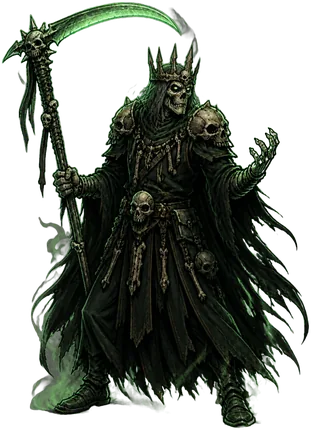
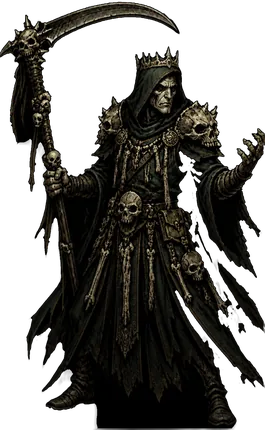
Nécromancien : armure palier V repeinte (sans aura, progression IV → V → VI)
Claude-Session: https://claude.ai/code/session_01XuxscubMSQPeew8BrSfQGu

diff --git a/index.html b/index.html
@@ -242,7 +242,7 @@ p{margin:6px 0;line-height:1.45}
 <div id="boot"><div class="bootin"><img src="assets/ui_emblem.webp" alt="" onerror="this.remove()"><h1>Couronne de Cendres</h1><div class="bootbar"><i></i></div><div class="boottxt">Les braises s'allument…</div><button class="btn ghost sm" id="bootskip" style="display:none">Continuer sans attendre</button></div></div>
 <div id="toasts" aria-live="polite"></div>
 <script>window.CC_SW = 1;</script><script>
-window.ART_LIST=["bg_abime","bg_bastion","bg_bastion2","bg_bastion_port","bg_bastion_port_src","bg_bourg","bg_catacombes","bg_cimes","bg_citadelle","bg_cite","bg_foret","bg_marais","bg_mines","bg_terres","bg_titre","bg_trone","bg_worldmap","bld_academie","bld_academie_2","bld_academie_3","bld_chapelle","bld_chapelle_2","bld_chapelle_3","bld_fonderie","bld_fonderie_2","bld_fonderie_3","bld_forge","bld_forge_2","bld_forge_3","bld_menagerie","bld_menagerie_2","bld_menagerie_3","bld_porte","bld_taverne","bld_taverne_2","bld_taverne_3","hero_arbaletriere_chasseresse","hero_arbaletriere_t1","hero_arbaletriere_t2","hero_arbaletriere_t3","hero_arbaletriere_t4","hero_arbaletriere_t5","hero_arbaletriere_tireuse_elite","hero_berserker_chef_guerre","hero_berserker_ecorcheur","hero_berserker_t1","hero_berserker_t2","hero_berserker_t3","hero_berserker_t4","hero_berserker_t5","hero_chasseur_sorcieres_purificateur","hero_chasseur_sorcieres_t1","hero_chasseur_sorcieres_t2","hero_chasseur_sorcieres_t3","hero_chasseur_sorcieres_t4","hero_chasseur_sorcieres_t5","hero_chasseur_sorcieres_traqueur","hero_exorciste_confesseur","hero_exorciste_penitent","hero_exorciste_t1","hero_exorciste_t2","hero_exorciste_t3","hero_exorciste_t4","hero_exorciste_t5","hero_gardien_runes_forge_tonnerre","hero_gardien_runes_t1","hero_gardien_runes_t2","hero_gardien_runes_t3","hero_gardien_runes_t4","hero_gardien_runes_t5","hero_gardien_runes_thane_pierre","hero_hallebardier_garde_roi","hero_hallebardier_lansquenet","hero_hallebardier_t1","hero_hallebardier_t2","hero_hallebardier_t3","hero_hallebardier_t4","hero_hallebardier_t5","hero_medecin_peste_apothicaire","hero_medecin_peste_chirurgien","hero_medecin_peste_t1","hero_medecin_peste_t2","hero_medecin_peste_t3","hero_medecin_peste_t4","hero_medecin_peste_t5","hero_menestrel_chantre","hero_menestrel_heraut","hero_menestrel_t1","hero_menestrel_t2","hero_menestrel_t3","hero_menestrel_t4","hero_menestrel_t5","hero_necromancien_liche","hero_necromancien_maitre_tombes","hero_necromancien_t1","hero_necromancien_t2","hero_necromancien_t3","hero_necromancien_t4","hero_necromancien_t5","hero_ombre_assassin","hero_ombre_ombre_sang","hero_ombre_t1","hero_ombre_t2","hero_ombre_t3","hero_ombre_t4","hero_ombre_t5","hero_pretresse_martyre","hero_pretresse_sainte","hero_pretresse_t1","hero_pretresse_t2","hero_pretresse_t3","hero_pretresse_t4","hero_pretresse_t5","hero_pyromancien_archimage","hero_pyromancien_demoniste","hero_pyromancien_t1","hero_pyromancien_t2","hero_pyromancien_t3","hero_pyromancien_t4","hero_pyromancien_t5","hero_revenant_seigneur_sang","hero_revenant_spectre","hero_revenant_t1","hero_revenant_t2","hero_revenant_t3","hero_revenant_t4","hero_revenant_t5","hero_sorciere_druidesse","hero_sorciere_sorciere_noire","hero_sorciere_t1","hero_sorciere_t2","hero_sorciere_t3","hero_sorciere_t4","hero_sorciere_t5","hero_templier_bastion","hero_templier_inquisiteur","hero_templier_t1","hero_templier_t2","hero_templier_t3","hero_templier_t4","hero_templier_t5","map_boss","map_camp","map_combat","map_elite","map_event","map_shop","map_treasure","mon_abbe","mon_alpha","mon_anguille_ombre","mon_araignee","mon_archer","mon_archer_os","mon_archonte_cendres","mon_boucher","mon_bouffon_roi","mon_bourreau","mon_brigand","mon_cardinal","mon_champion_roi","mon_charognard","mon_chauve_souris","mon_chevalier_couronne","mon_chevalier_dechu","mon_chevalier_os","mon_chevaucheur_calcine","mon_chien_cendre","mon_coeur_montagne","mon_colosse_braise","mon_contremaitre","mon_crabe_geant","mon_crapaud","mon_cultiste","mon_devoreur_lumiere","mon_diablotin","mon_docteur","mon_dryade","mon_follet","mon_fondeur_maudit","mon_garde_spectral","mon_gargouille","mon_golem","mon_golem_fer","mon_goule","mon_hallebardier_os","mon_heraut_neant","mon_homme_poisson","mon_horreur","mon_hydre","mon_inquisiteur","mon_jarl_mort","mon_leviathan","mon_liche","mon_loup","mon_loup_givre","mon_matrone_os","mon_mere_noyes","mon_mere_ronces","mon_mineur_possede","mon_moine_flagellant","mon_necrophage","mon_noye","mon_noyee_chantante","mon_oeil","mon_ogre","mon_pecheur","mon_pendu","mon_penitent_ardent","mon_pestifere","mon_pretre_abysses","mon_pretre_suie","mon_prieur","mon_profond","mon_rat","mon_reine_hiver","mon_reine_sabbat","mon_revenant_glace","mon_roi","mon_roi_noye","mon_roi_vide","mon_sangsue","mon_sans_nom","mon_sans_visage","mon_sentinelle_obsidienne","mon_seraphin_dechu","mon_sorcier_givre","mon_sorciere_marais","mon_spectre","mon_spectre_blizzard","mon_squelette","mon_thuriferaire","mon_troll_givre","mon_ver_roche","pet_araignee","pet_araignee_evo","pet_belette","pet_cerf","pet_cerf_evo","pet_chat_noir","pet_chat_noir_evo","pet_chauve_souris","pet_chauve_souris_evo","pet_chouette","pet_chouette_evo","pet_corbeau","pet_corbeau_evo","pet_crapaud","pet_crapaud_evo","pet_drake","pet_drake_evo","pet_feu_follet","pet_feu_follet_evo","pet_gargouille","pet_gargouille_evo","pet_griffon","pet_griffon_evo","pet_loup","pet_loup_evo","pet_molosse","pet_molosse_evo","pet_ours","pet_ours_evo","pet_renard","pet_renard_evo","pet_salamandre","pet_salamandre_evo","pet_sanglier","pet_sanglier_evo","pet_vipere","pet_vipere_evo","por_anselme","por_capitaine","por_maugrin","por_ysolde","tr_amulette_sel","tr_bague_fer","tr_cape_brume","tr_chapelet","tr_cloche_morte","tr_coeur_braise","tr_coeur_roi","tr_couronne_epines","tr_crane_saint","tr_croc_vampire","tr_dent_loup","tr_ecu_brise","tr_fiole_sang","tr_fragment_couronne","tr_gant_bourreau","tr_griffe_ombre","tr_herbe_rare","tr_oeil_abime","tr_oeil_verre","tr_phylactere","tr_pierre_ame","tr_plume_corbeau","tr_relique_aube","tr_sablier","tr_sceau_rouge","ui_aim","ui_amulet","ui_anvil","ui_armor","ui_atlas","ui_axe","ui_back","ui_bag","ui_banner","ui_bark","ui_bell","ui_bird","ui_bless","ui_blood","ui_bolt","ui_bones","ui_book","ui_boom","ui_camp","ui_castle","ui_chain","ui_chapel","ui_charge","ui_chest","ui_claw","ui_cleanse","ui_cloak","ui_coin","ui_crown","ui_cup","ui_curse","ui_dagger","ui_daily","ui_dice","ui_drain","ui_ember","ui_emblem","ui_essence","ui_eye","ui_fang","ui_fear","ui_feather","ui_fire","ui_flames","ui_flare","ui_flask","ui_flee","ui_frost","ui_furnace","ui_gear","ui_gem","ui_ghost","ui_glove","ui_guard","ui_hammer","ui_hand","ui_heal","ui_heart","ui_helm","ui_herb","ui_horn","ui_hourglass","ui_iron","ui_knives","ui_link","ui_lock","ui_lute","ui_mace","ui_map","ui_mark","ui_mask","ui_meteor","ui_moon","ui_music","ui_note","ui_pact","ui_paw","ui_pawn","ui_pierce","ui_pillar","ui_potion","ui_quest","ui_rage","ui_rain","ui_ray","ui_ring","ui_riposte","ui_root","ui_rosary","ui_run","ui_sanct","ui_scroll","ui_scythe","ui_seal","ui_shard","ui_shield","ui_shroud","ui_skull","ui_skullc","ui_smoke","ui_sound","ui_star","ui_stun","ui_sun","ui_sword","ui_swords","ui_tavern","ui_thorn","ui_torch","ui_trap","ui_tree","ui_trophy","ui_vial","ui_wall","ui_weapon","ui_whirl","ui_wind","wpn_arbalete","wpn_baton","wpn_croix","wpn_dagues","wpn_encensoir","wpn_espadon","wpn_faucille","wpn_faux","wpn_grimoire","wpn_hache","wpn_hallebarde","wpn_luth","wpn_marteau","wpn_masse","wpn_rapiere"];window.ART_META={"hero_arbaletriere_chasseresse": 0.019,"hero_arbaletriere_t1": 0.009,"hero_arbaletriere_t2": 0.009,"hero_arbaletriere_t3": 0.007,"hero_arbaletriere_t4": 0.007,"hero_arbaletriere_t5": 0.007,"hero_arbaletriere_tireuse_elite": 0.007,"hero_berserker_chef_guerre": 0.03,"hero_berserker_ecorcheur": 0.007,"hero_berserker_t1": 0.014,"hero_berserker_t2": 0.009,"hero_berserker_t3": 0.009,"hero_berserker_t4": 0.007,"hero_berserker_t5": 0.007,"hero_chasseur_sorcieres_purificateur": 0.056,"hero_chasseur_sorcieres_t1": 0.007,"hero_chasseur_sorcieres_t2": 0.009,"hero_chasseur_sorcieres_t3": 0.007,"hero_chasseur_sorcieres_t4": 0.007,"hero_chasseur_sorcieres_t5": 0.012,"hero_chasseur_sorcieres_traqueur": 0.007,"hero_exorciste_confesseur": 0.005,"hero_exorciste_penitent": 0.028,"hero_exorciste_t1": 0.04,"hero_exorciste_t2": 0.065,"hero_exorciste_t3": 0.074,"hero_exorciste_t4": 0.072,"hero_exorciste_t5": 0.03,"hero_gardien_runes_forge_tonnerre": 0.023,"hero_gardien_runes_t1": 0.014,"hero_gardien_runes_t2": 0.012,"hero_gardien_runes_t3": 0.014,"hero_gardien_runes_t4": 0.014,"hero_gardien_runes_t5": 0.035,"hero_gardien_runes_thane_pierre": 0.014,"hero_hallebardier_garde_roi": 0.016,"hero_hallebardier_lansquenet": 0.028,"hero_hallebardier_t1": 0.012,"hero_hallebardier_t2": 0.012,"hero_hallebardier_t3": 0.012,"hero_hallebardier_t4": 0.021,"hero_hallebardier_t5": 0.014,"hero_medecin_peste_apothicaire": 0.005,"hero_medecin_peste_chirurgien": 0.005,"hero_medecin_peste_t1": 0.007,"hero_medecin_peste_t2": 0.005,"hero_medecin_peste_t3": 0.005,"hero_medecin_peste_t4": 0.005,"hero_medecin_peste_t5": 0.005,"hero_menestrel_chantre": 0.007,"hero_menestrel_heraut": 0.13,"hero_menestrel_t1": 0.007,"hero_menestrel_t2": 0.005,"hero_menestrel_t3": 0.007,"hero_menestrel_t4": 0.012,"hero_menestrel_t5": 0.007,"hero_necromancien_liche": 0.014,"hero_necromancien_maitre_tombes": 0.079,"hero_necromancien_t1": 0.009,"hero_necromancien_t2": 0.016,"hero_necromancien_t3": 0.016,"hero_necromancien_t4": 0.016,"hero_necromancien_t5": 0.012,"hero_ombre_assassin": 0.007,"hero_ombre_ombre_sang": 0.009,"hero_ombre_t1": 0.009,"hero_ombre_t2": 0.009,"hero_ombre_t3": 0.009,"hero_ombre_t4": 0.009,"hero_ombre_t5": 0.007,"hero_pretresse_martyre": 0.102,"hero_pretresse_sainte": 0.07,"hero_pretresse_t1": 0.079,"hero_pretresse_t2": 0.1,"hero_pretresse_t3": 0.121,"hero_pretresse_t4": 0.091,"hero_pretresse_t5": 0.06,"hero_pyromancien_archimage": 0.007,"hero_pyromancien_demoniste": 0.051,"hero_pyromancien_t1": 0.009,"hero_pyromancien_t2": 0.007,"hero_pyromancien_t3": 0.007,"hero_pyromancien_t4": 0.007,"hero_pyromancien_t5": 0.009,"hero_revenant_seigneur_sang": 0.151,"hero_revenant_spectre": 0.114,"hero_revenant_t1": 0.109,"hero_revenant_t2": 0.151,"hero_revenant_t3": 0.156,"hero_revenant_t4": 0.149,"hero_revenant_t5": 0.095,"hero_sorciere_druidesse": 0.051,"hero_sorciere_sorciere_noire": 0.028,"hero_sorciere_t1": 0.007,"hero_sorciere_t2": 0.014,"hero_sorciere_t3": 0.012,"hero_sorciere_t4": 0.009,"hero_sorciere_t5": 0.019,"hero_templier_bastion": 0.021,"hero_templier_inquisiteur": 0.007,"hero_templier_t1": 0.007,"hero_templier_t2": 0.007,"hero_templier_t3": 0.005,"hero_templier_t4": 0.026,"hero_templier_t5": 0.009};window.ART_CX={"hero_arbaletriere_chasseresse":0.413,"hero_arbaletriere_t1":0.377,"hero_arbaletriere_t2":0.376,"hero_arbaletriere_t3":0.379,"hero_arbaletriere_t4":0.353,"hero_arbaletriere_t5":0.43,"hero_arbaletriere_tireuse_elite":0.329,"hero_berserker_ecorcheur":0.532,"hero_berserker_t2":0.538,"hero_chasseur_sorcieres_purificateur":0.444,"hero_chasseur_sorcieres_t1":0.307,"hero_chasseur_sorcieres_t2":0.333,"hero_chasseur_sorcieres_t3":0.335,"hero_chasseur_sorcieres_t4":0.39,"hero_chasseur_sorcieres_t5":0.439,"hero_chasseur_sorcieres_traqueur":0.395,"hero_exorciste_penitent":0.372,"hero_exorciste_t1":0.55,"hero_exorciste_t2":0.551,"hero_exorciste_t4":0.538,"hero_gardien_runes_forge_tonnerre":0.54,"hero_gardien_runes_t1":0.587,"hero_gardien_runes_t3":0.545,"hero_gardien_runes_t5":0.536,"hero_hallebardier_garde_roi":0.441,"hero_hallebardier_lansquenet":0.467,"hero_hallebardier_t1":0.43,"hero_hallebardier_t2":0.433,"hero_hallebardier_t3":0.429,"hero_hallebardier_t4":0.434,"hero_hallebardier_t5":0.463,"hero_medecin_peste_apothicaire":0.446,"hero_medecin_peste_chirurgien":0.447,"hero_medecin_peste_t1":0.447,"hero_medecin_peste_t2":0.453,"hero_medecin_peste_t3":0.446,"hero_medecin_peste_t4":0.463,"hero_medecin_peste_t5":0.451,"hero_menestrel_t1":0.46,"hero_menestrel_t3":0.468,"hero_menestrel_t5":0.432,"hero_necromancien_liche":0.53,"hero_necromancien_maitre_tombes":0.531,"hero_necromancien_t1":0.535,"hero_necromancien_t2":0.565,"hero_necromancien_t3":0.54,"hero_necromancien_t4":0.537,"hero_ombre_assassin":0.605,"hero_ombre_ombre_sang":0.56,"hero_ombre_t1":0.551,"hero_ombre_t2":0.571,"hero_ombre_t3":0.557,"hero_ombre_t4":0.598,"hero_ombre_t5":0.62,"hero_pretresse_t1":0.538,"hero_pyromancien_demoniste":0.453,"hero_revenant_seigneur_sang":0.376,"hero_revenant_spectre":0.397,"hero_revenant_t1":0.376,"hero_revenant_t2":0.371,"hero_revenant_t3":0.368,"hero_revenant_t4":0.374,"hero_revenant_t5":0.403,"hero_sorciere_druidesse":0.547,"hero_sorciere_t1":0.592,"hero_sorciere_t2":0.605,"hero_sorciere_t3":0.571,"hero_sorciere_t4":0.558,"hero_sorciere_t5":0.603,"hero_templier_inquisiteur":0.47,"hero_templier_t1":0.542,"mon_abbe":0.468,"mon_anguille_ombre":0.538,"mon_araignee":0.463,"mon_archer":0.606,"mon_archer_os":0.392,"mon_boucher":0.538,"mon_bouffon_roi":0.651,"mon_cardinal":0.591,"mon_charognard":0.537,"mon_chauve_souris":0.443,"mon_chevalier_couronne":0.577,"mon_chevalier_dechu":0.587,"mon_chevalier_os":0.538,"mon_chevaucheur_calcine":0.592,"mon_chien_cendre":0.56,"mon_coeur_montagne":0.448,"mon_colosse_braise":0.448,"mon_crapaud":0.537,"mon_cultiste":0.538,"mon_devoreur_lumiere":0.53,"mon_dryade":0.551,"mon_fondeur_maudit":0.619,"mon_garde_spectral":0.627,"mon_goule":0.557,"mon_hallebardier_os":0.609,"mon_heraut_neant":0.633,"mon_homme_poisson":0.683,"mon_inquisiteur":0.457,"mon_jarl_mort":0.458,"mon_loup":0.447,"mon_mere_noyes":0.47,"mon_mineur_possede":0.634,"mon_necrophage":0.553,"mon_noyee_chantante":0.531,"mon_ogre":0.447,"mon_pendu":0.615,"mon_penitent_ardent":0.553,"mon_pestifere":0.653,"mon_profond":0.607,"mon_reine_sabbat":0.465,"mon_revenant_glace":0.607,"mon_roi":0.559,"mon_roi_noye":0.404,"mon_roi_vide":0.56,"mon_sangsue":0.45,"mon_sans_visage":0.551,"mon_sentinelle_obsidienne":0.556,"mon_sorcier_givre":0.61,"mon_sorciere_marais":0.605,"mon_spectre":0.539,"mon_squelette":0.581,"mon_thuriferaire":0.606,"mon_troll_givre":0.587,"mon_ver_roche":0.538,"pet_araignee_evo":0.453,"pet_belette":0.433,"pet_chat_noir":0.463,"pet_chouette":0.559,"pet_corbeau":0.47,"pet_corbeau_evo":0.463,"pet_crapaud":0.437,"pet_crapaud_evo":0.467,"pet_drake":0.453,"pet_griffon":0.557,"pet_griffon_evo":0.557,"pet_loup":0.43,"pet_loup_evo":0.45,"pet_ours_evo":0.463,"pet_renard_evo":0.467,"pet_salamandre":0.47,"pet_sanglier":0.537,"pet_sanglier_evo":0.457,"pet_vipere":0.53};window.ART_FACE={"mon_abbe":[0.412,0.145,0.258],"mon_alpha":[0.1,0.58,0.4],"mon_anguille_ombre":[0.447,0.124,0.27],"mon_araignee":[0.493,0.29,0.429],"mon_archer":[0.541,0.206,0.244],"mon_archer_os":[0.34,0.246,0.224],"mon_archonte_cendres":[0.37,0.22,0.15],"mon_boucher":[0.608,0.176,0.354],"mon_bouffon_roi":[0.478,0.183,0.223],"mon_bourreau":[0.61,0.127,0.268],"mon_brigand":[0.392,0.127,0.268],"mon_cardinal":[0.527,0.178,0.248],"mon_champion_roi":[0.36,0.124,0.27],"mon_charognard":[0.13,0.45,0.28],"mon_chauve_souris":[0.304,0.639,0.561],"mon_chevalier_couronne":[0.538,0.172,0.255],"mon_chevalier_dechu":[0.515,0.196,0.244],"mon_chevalier_os":[0.56,0.136,0.244],"mon_chevaucheur_calcine":[0.58,0.12,0.18],"mon_chien_cendre":[0.203,0.286,0.394],"mon_coeur_montagne":[0.3,0.17,0.22],"mon_colosse_braise":[0.42,0.13,0.2],"mon_contremaitre":[0.533,0.124,0.27],"mon_crabe_geant":[0.45,0.4,0.5],"mon_crapaud":[0.326,0.284,0.586],"mon_cultiste":[0.596,0.127,0.268],"mon_devoreur_lumiere":[0.22,0.2,0.3],"mon_diablotin":[0.25,0.3,0.25],"mon_docteur":[0.465,0.146,0.239],"mon_dryade":[0.468,0.164,0.255],"mon_follet":[0.5,0.6,0.35],"mon_fondeur_maudit":[0.596,0.127,0.269],"mon_garde_spectral":[0.635,0.316,0.208],"mon_gargouille":[0.24,0.36,0.27],"mon_golem":[0.3,0.15,0.24],"mon_golem_fer":[0.553,0.189,0.346],"mon_goule":[0.354,0.119,0.252],"mon_hallebardier_os":[0.531,0.152,0.177],"mon_heraut_neant":[0.565,0.173,0.357],"mon_homme_poisson":[0.585,0.234,0.325],"mon_horreur":[0.476,0.273,0.304],"mon_hydre":[0.365,0.167,0.32],"mon_inquisiteur":[0.422,0.179,0.252],"mon_jarl_mort":[0.22,0.14,0.17],"mon_leviathan":[0.474,0.175,0.352],"mon_liche":[0.503,0.199,0.245],"mon_loup":[0.13,0.47,0.45],"mon_loup_givre":[0.15,0.42,0.4],"mon_matrone_os":[0.536,0.173,0.253],"mon_mere_noyes":[0.463,0.184,0.349],"mon_mere_ronces":[0.465,0.202,0.331],"mon_mineur_possede":[0.491,0.139,0.266],"mon_moine_flagellant":[0.435,0.111,0.233],"mon_necrophage":[0.436,0.127,0.261],"mon_noye":[0.522,0.127,0.268],"mon_noyee_chantante":[0.382,0.13,0.268],"mon_oeil":[0.481,0.152,0.215],"mon_ogre":[0.467,0.167,0.356],"mon_pecheur":[0.488,0.173,0.238],"mon_pendu":[0.338,0.17,0.254],"mon_penitent_ardent":[0.529,0.173,0.251],"mon_pestifere":[0.533,0.133,0.266],"mon_pretre_abysses":[0.551,0.18,0.354],"mon_pretre_suie":[0.488,0.132,0.265],"mon_prieur":[0.499,0.141,0.264],"mon_profond":[0.38,0.2,0.18],"mon_rat":[0.13,0.47,0.5],"mon_reine_hiver":[0.533,0.181,0.205],"mon_reine_sabbat":[0.476,0.188,0.249],"mon_revenant_glace":[0.564,0.172,0.298],"mon_roi":[0.546,0.166,0.253],"mon_roi_noye":[0.416,0.215,0.242],"mon_roi_vide":[0.59,0.199,0.346],"mon_sangsue":[0.264,0.17,0.355],"mon_sans_nom":[0.509,0.213,0.239],"mon_sans_visage":[0.479,0.201,0.343],"mon_sentinelle_obsidienne":[0.562,0.158,0.257],"mon_seraphin_dechu":[0.15,0.15,0.16],"mon_sorcier_givre":[0.468,0.221,0.24],"mon_sorciere_marais":[0.492,0.235,0.235],"mon_spectre":[0.434,0.112,0.237],"mon_spectre_blizzard":[0.3,0.12,0.18],"mon_squelette":[0.436,0.106,0.208],"mon_thuriferaire":[0.588,0.175,0.213],"mon_troll_givre":[0.44,0.2,0.3],"mon_ver_roche":[0.368,0.168,0.358],"pet_araignee":[0.675,0.45,0.442],"pet_araignee_evo":[0.695,0.49,0.464],"pet_belette":[0.753,0.292,0.599],"pet_cerf":[0.778,0.203,0.23],"pet_cerf_evo":[0.72,0.42,0.2],"pet_chat_noir":[0.733,0.327,0.599],"pet_chat_noir_evo":[0.729,0.353,0.453],"pet_chauve_souris":[0.55,0.55,0.4],"pet_chauve_souris_evo":[0.5,0.4,0.4],"pet_chouette":[0.74,0.33,0.25],"pet_chouette_evo":[0.6,0.42,0.18],"pet_corbeau":[0.742,0.152,0.315],"pet_corbeau_evo":[0.733,0.166,0.323],"pet_crapaud":[0.703,0.289,0.581],"pet_crapaud_evo":[0.675,0.31,0.562],"pet_drake":[0.733,0.208,0.331],"pet_drake_evo":[0.731,0.389,0.543],"pet_feu_follet":[0.45,0.52,0.3],"pet_feu_follet_evo":[0.45,0.52,0.25],"pet_gargouille":[0.75,0.32,0.38],"pet_gargouille_evo":[0.74,0.45,0.32],"pet_griffon":[0.84,0.27,0.3],"pet_griffon_evo":[0.84,0.2,0.27],"pet_loup":[0.742,0.248,0.437],"pet_loup_evo":[0.739,0.303,0.588],"pet_molosse":[0.816,0.173,0.352],"pet_molosse_evo":[0.709,0.171,0.354],"pet_ours":[0.729,0.29,0.593],"pet_ours_evo":[0.7,0.284,0.601],"pet_renard":[0.745,0.305,0.588],"pet_renard_evo":[0.69,0.507,0.467],"pet_salamandre":[0.87,0.45,0.45],"pet_salamandre_evo":[0.87,0.45,0.45],"pet_sanglier":[0.84,0.55,0.55],"pet_sanglier_evo":[0.82,0.68,0.5],"pet_vipere":[0.78,0.22,0.28],"pet_vipere_evo":[0.72,0.27,0.3]};window.UI_ATLAS={"c":12,"r":10,"s":96,"n":{"aim":0,"amulet":1,"anvil":2,"armor":3,"axe":4,"back":5,"bag":6,"banner":7,"bark":8,"bell":9,"bird":10,"bless":11,"blood":12,"bolt":13,"bones":14,"book":15,"boom":16,"camp":17,"castle":18,"chain":19,"chapel":20,"charge":21,"chest":22,"claw":23,"cleanse":24,"cloak":25,"coin":26,"crown":27,"cup":28,"curse":29,"dagger":30,"daily":31,"dice":32,"drain":33,"ember":34,"essence":35,"eye":36,"fang":37,"fear":38,"feather":39,"fire":40,"flames":41,"flare":42,"flask":43,"flee":44,"frost":45,"furnace":46,"gear":47,"gem":48,"ghost":49,"glove":50,"guard":51,"hammer":52,"hand":53,"heal":54,"heart":55,"helm":56,"herb":57,"horn":58,"hourglass":59,"iron":60,"knives":61,"link":62,"lock":63,"lute":64,"mace":65,"map":66,"mark":67,"mask":68,"meteor":69,"moon":70,"music":71,"note":72,"pact":73,"paw":74,"pierce":75,"pillar":76,"potion":77,"quest":78,"rage":79,"rain":80,"ray":81,"ring":82,"riposte":83,"root":84,"rosary":85,"run":86,"sanct":87,"scroll":88,"scythe":89,"seal":90,"shard":91,"shield":92,"shroud":93,"skull":94,"skullc":95,"smoke":96,"sound":97,"star":98,"stun":99,"sun":100,"sword":101,"swords":102,"tavern":103,"thorn":104,"torch":105,"trap":106,"tree":107,"trophy":108,"vial":109,"wall":110,"weapon":111,"whirl":112,"wind":113}};window.SFX_LIST=["amb_abime","amb_bastion","amb_bourg","amb_catacombes","amb_cimes","amb_citadelle","amb_cite","amb_foret","amb_marais","amb_mines","amb_terres","amb_trone","fx_bell_1","fx_bleed_1","fx_bleed_2","fx_block_1","fx_block_2","fx_buff_1","fx_click_1","fx_coin_1","fx_coin_2","fx_crit_1","fx_crit_2","fx_dark_1","fx_dark_2","fx_dark_3","fx_debuff_1","fx_debuff_2","fx_die_1","fx_die_2","fx_door_1","fx_door_2","fx_fall_1","fx_fire_1","fx_fire_2","fx_fire_3","fx_forge_1","fx_forge_2","fx_frost_1","fx_frost_2","fx_heal_1","fx_heal_2","fx_heal_3","fx_heal_4","fx_heavy_1","fx_heavy_2","fx_hit_1","fx_hit_2","fx_hit_3","fx_hit_4","fx_holy_1","fx_holy_2","fx_holy_3","fx_level_1","fx_lose_1","fx_miss_1","fx_miss_2","fx_open_1","fx_poison_1","fx_poison_2","fx_shock_1","fx_shock_2","fx_shoot_1","fx_shoot_2","fx_slash_1","fx_slash_2","fx_slash_3","fx_step_1","fx_step_2","fx_step_3","fx_stun_1","fx_ult_1","fx_win_1"];window.ART_FLIP=["mon_archer_os","mon_moine_flagellant","mon_spectre","hero_ombre_assassin","hero_ombre_ombre_sang","mon_cardinal"];
+window.ART_LIST=["bg_abime","bg_bastion","bg_bastion2","bg_bastion_port","bg_bastion_port_src","bg_bourg","bg_catacombes","bg_cimes","bg_citadelle","bg_cite","bg_foret","bg_marais","bg_mines","bg_terres","bg_titre","bg_trone","bg_worldmap","bld_academie","bld_academie_2","bld_academie_3","bld_chapelle","bld_chapelle_2","bld_chapelle_3","bld_fonderie","bld_fonderie_2","bld_fonderie_3","bld_forge","bld_forge_2","bld_forge_3","bld_menagerie","bld_menagerie_2","bld_menagerie_3","bld_porte","bld_taverne","bld_taverne_2","bld_taverne_3","hero_arbaletriere_chasseresse","hero_arbaletriere_t1","hero_arbaletriere_t2","hero_arbaletriere_t3","hero_arbaletriere_t4","hero_arbaletriere_t5","hero_arbaletriere_tireuse_elite","hero_berserker_chef_guerre","hero_berserker_ecorcheur","hero_berserker_t1","hero_berserker_t2","hero_berserker_t3","hero_berserker_t4","hero_berserker_t5","hero_chasseur_sorcieres_purificateur","hero_chasseur_sorcieres_t1","hero_chasseur_sorcieres_t2","hero_chasseur_sorcieres_t3","hero_chasseur_sorcieres_t4","hero_chasseur_sorcieres_t5","hero_chasseur_sorcieres_traqueur","hero_exorciste_confesseur","hero_exorciste_penitent","hero_exorciste_t1","hero_exorciste_t2","hero_exorciste_t3","hero_exorciste_t4","hero_exorciste_t5","hero_gardien_runes_forge_tonnerre","hero_gardien_runes_t1","hero_gardien_runes_t2","hero_gardien_runes_t3","hero_gardien_runes_t4","hero_gardien_runes_t5","hero_gardien_runes_thane_pierre","hero_hallebardier_garde_roi","hero_hallebardier_lansquenet","hero_hallebardier_t1","hero_hallebardier_t2","hero_hallebardier_t3","hero_hallebardier_t4","hero_hallebardier_t5","hero_medecin_peste_apothicaire","hero_medecin_peste_chirurgien","hero_medecin_peste_t1","hero_medecin_peste_t2","hero_medecin_peste_t3","hero_medecin_peste_t4","hero_medecin_peste_t5","hero_menestrel_chantre","hero_menestrel_heraut","hero_menestrel_t1","hero_menestrel_t2","hero_menestrel_t3","hero_menestrel_t4","hero_menestrel_t5","hero_necromancien_liche","hero_necromancien_maitre_tombes","hero_necromancien_t1","hero_necromancien_t2","hero_necromancien_t3","hero_necromancien_t4","hero_necromancien_t5","hero_ombre_assassin","hero_ombre_ombre_sang","hero_ombre_t1","hero_ombre_t2","hero_ombre_t3","hero_ombre_t4","hero_ombre_t5","hero_pretresse_martyre","hero_pretresse_sainte","hero_pretresse_t1","hero_pretresse_t2","hero_pretresse_t3","hero_pretresse_t4","hero_pretresse_t5","hero_pyromancien_archimage","hero_pyromancien_demoniste","hero_pyromancien_t1","hero_pyromancien_t2","hero_pyromancien_t3","hero_pyromancien_t4","hero_pyromancien_t5","hero_revenant_seigneur_sang","hero_revenant_spectre","hero_revenant_t1","hero_revenant_t2","hero_revenant_t3","hero_revenant_t4","hero_revenant_t5","hero_sorciere_druidesse","hero_sorciere_sorciere_noire","hero_sorciere_t1","hero_sorciere_t2","hero_sorciere_t3","hero_sorciere_t4","hero_sorciere_t5","hero_templier_bastion","hero_templier_inquisiteur","hero_templier_t1","hero_templier_t2","hero_templier_t3","hero_templier_t4","hero_templier_t5","map_boss","map_camp","map_combat","map_elite","map_event","map_shop","map_treasure","mon_abbe","mon_alpha","mon_anguille_ombre","mon_araignee","mon_archer","mon_archer_os","mon_archonte_cendres","mon_boucher","mon_bouffon_roi","mon_bourreau","mon_brigand","mon_cardinal","mon_champion_roi","mon_charognard","mon_chauve_souris","mon_chevalier_couronne","mon_chevalier_dechu","mon_chevalier_os","mon_chevaucheur_calcine","mon_chien_cendre","mon_coeur_montagne","mon_colosse_braise","mon_contremaitre","mon_crabe_geant","mon_crapaud","mon_cultiste","mon_devoreur_lumiere","mon_diablotin","mon_docteur","mon_dryade","mon_follet","mon_fondeur_maudit","mon_garde_spectral","mon_gargouille","mon_golem","mon_golem_fer","mon_goule","mon_hallebardier_os","mon_heraut_neant","mon_homme_poisson","mon_horreur","mon_hydre","mon_inquisiteur","mon_jarl_mort","mon_leviathan","mon_liche","mon_loup","mon_loup_givre","mon_matrone_os","mon_mere_noyes","mon_mere_ronces","mon_mineur_possede","mon_moine_flagellant","mon_necrophage","mon_noye","mon_noyee_chantante","mon_oeil","mon_ogre","mon_pecheur","mon_pendu","mon_penitent_ardent","mon_pestifere","mon_pretre_abysses","mon_pretre_suie","mon_prieur","mon_profond","mon_rat","mon_reine_hiver","mon_reine_sabbat","mon_revenant_glace","mon_roi","mon_roi_noye","mon_roi_vide","mon_sangsue","mon_sans_nom","mon_sans_visage","mon_sentinelle_obsidienne","mon_seraphin_dechu","mon_sorcier_givre","mon_sorciere_marais","mon_spectre","mon_spectre_blizzard","mon_squelette","mon_thuriferaire","mon_troll_givre","mon_ver_roche","pet_araignee","pet_araignee_evo","pet_belette","pet_cerf","pet_cerf_evo","pet_chat_noir","pet_chat_noir_evo","pet_chauve_souris","pet_chauve_souris_evo","pet_chouette","pet_chouette_evo","pet_corbeau","pet_corbeau_evo","pet_crapaud","pet_crapaud_evo","pet_drake","pet_drake_evo","pet_feu_follet","pet_feu_follet_evo","pet_gargouille","pet_gargouille_evo","pet_griffon","pet_griffon_evo","pet_loup","pet_loup_evo","pet_molosse","pet_molosse_evo","pet_ours","pet_ours_evo","pet_renard","pet_renard_evo","pet_salamandre","pet_salamandre_evo","pet_sanglier","pet_sanglier_evo","pet_vipere","pet_vipere_evo","por_anselme","por_capitaine","por_maugrin","por_ysolde","tr_amulette_sel","tr_bague_fer","tr_cape_brume","tr_chapelet","tr_cloche_morte","tr_coeur_braise","tr_coeur_roi","tr_couronne_epines","tr_crane_saint","tr_croc_vampire","tr_dent_loup","tr_ecu_brise","tr_fiole_sang","tr_fragment_couronne","tr_gant_bourreau","tr_griffe_ombre","tr_herbe_rare","tr_oeil_abime","tr_oeil_verre","tr_phylactere","tr_pierre_ame","tr_plume_corbeau","tr_relique_aube","tr_sablier","tr_sceau_rouge","ui_aim","ui_amulet","ui_anvil","ui_armor","ui_atlas","ui_axe","ui_back","ui_bag","ui_banner","ui_bark","ui_bell","ui_bird","ui_bless","ui_blood","ui_bolt","ui_bones","ui_book","ui_boom","ui_camp","ui_castle","ui_chain","ui_chapel","ui_charge","ui_chest","ui_claw","ui_cleanse","ui_cloak","ui_coin","ui_crown","ui_cup","ui_curse","ui_dagger","ui_daily","ui_dice","ui_drain","ui_ember","ui_emblem","ui_essence","ui_eye","ui_fang","ui_fear","ui_feather","ui_fire","ui_flames","ui_flare","ui_flask","ui_flee","ui_frost","ui_furnace","ui_gear","ui_gem","ui_ghost","ui_glove","ui_guard","ui_hammer","ui_hand","ui_heal","ui_heart","ui_helm","ui_herb","ui_horn","ui_hourglass","ui_iron","ui_knives","ui_link","ui_lock","ui_lute","ui_mace","ui_map","ui_mark","ui_mask","ui_meteor","ui_moon","ui_music","ui_note","ui_pact","ui_paw","ui_pawn","ui_pierce","ui_pillar","ui_potion","ui_quest","ui_rage","ui_rain","ui_ray","ui_ring","ui_riposte","ui_root","ui_rosary","ui_run","ui_sanct","ui_scroll","ui_scythe","ui_seal","ui_shard","ui_shield","ui_shroud","ui_skull","ui_skullc","ui_smoke","ui_sound","ui_star","ui_stun","ui_sun","ui_sword","ui_swords","ui_tavern","ui_thorn","ui_torch","ui_trap","ui_tree","ui_trophy","ui_vial","ui_wall","ui_weapon","ui_whirl","ui_wind","wpn_arbalete","wpn_baton","wpn_croix","wpn_dagues","wpn_encensoir","wpn_espadon","wpn_faucille","wpn_faux","wpn_grimoire","wpn_hache","wpn_hallebarde","wpn_luth","wpn_marteau","wpn_masse","wpn_rapiere"];window.ART_META={"hero_arbaletriere_chasseresse": 0.019,"hero_arbaletriere_t1": 0.009,"hero_arbaletriere_t2": 0.009,"hero_arbaletriere_t3": 0.007,"hero_arbaletriere_t4": 0.007,"hero_arbaletriere_t5": 0.007,"hero_arbaletriere_tireuse_elite": 0.007,"hero_berserker_chef_guerre": 0.03,"hero_berserker_ecorcheur": 0.007,"hero_berserker_t1": 0.014,"hero_berserker_t2": 0.009,"hero_berserker_t3": 0.009,"hero_berserker_t4": 0.007,"hero_berserker_t5": 0.007,"hero_chasseur_sorcieres_purificateur": 0.056,"hero_chasseur_sorcieres_t1": 0.007,"hero_chasseur_sorcieres_t2": 0.009,"hero_chasseur_sorcieres_t3": 0.007,"hero_chasseur_sorcieres_t4": 0.007,"hero_chasseur_sorcieres_t5": 0.012,"hero_chasseur_sorcieres_traqueur": 0.007,"hero_exorciste_confesseur": 0.005,"hero_exorciste_penitent": 0.028,"hero_exorciste_t1": 0.04,"hero_exorciste_t2": 0.065,"hero_exorciste_t3": 0.074,"hero_exorciste_t4": 0.072,"hero_exorciste_t5": 0.03,"hero_gardien_runes_forge_tonnerre": 0.023,"hero_gardien_runes_t1": 0.014,"hero_gardien_runes_t2": 0.012,"hero_gardien_runes_t3": 0.014,"hero_gardien_runes_t4": 0.014,"hero_gardien_runes_t5": 0.035,"hero_gardien_runes_thane_pierre": 0.014,"hero_hallebardier_garde_roi": 0.016,"hero_hallebardier_lansquenet": 0.028,"hero_hallebardier_t1": 0.012,"hero_hallebardier_t2": 0.012,"hero_hallebardier_t3": 0.012,"hero_hallebardier_t4": 0.021,"hero_hallebardier_t5": 0.014,"hero_medecin_peste_apothicaire": 0.005,"hero_medecin_peste_chirurgien": 0.005,"hero_medecin_peste_t1": 0.007,"hero_medecin_peste_t2": 0.005,"hero_medecin_peste_t3": 0.005,"hero_medecin_peste_t4": 0.005,"hero_medecin_peste_t5": 0.005,"hero_menestrel_chantre": 0.007,"hero_menestrel_heraut": 0.13,"hero_menestrel_t1": 0.007,"hero_menestrel_t2": 0.005,"hero_menestrel_t3": 0.007,"hero_menestrel_t4": 0.012,"hero_menestrel_t5": 0.007,"hero_necromancien_liche": 0.014,"hero_necromancien_maitre_tombes": 0.079,"hero_necromancien_t1": 0.009,"hero_necromancien_t2": 0.016,"hero_necromancien_t3": 0.016,"hero_necromancien_t4": 0.016,"hero_necromancien_t5": 0.005,"hero_ombre_assassin": 0.007,"hero_ombre_ombre_sang": 0.009,"hero_ombre_t1": 0.009,"hero_ombre_t2": 0.009,"hero_ombre_t3": 0.009,"hero_ombre_t4": 0.009,"hero_ombre_t5": 0.007,"hero_pretresse_martyre": 0.102,"hero_pretresse_sainte": 0.07,"hero_pretresse_t1": 0.079,"hero_pretresse_t2": 0.1,"hero_pretresse_t3": 0.121,"hero_pretresse_t4": 0.091,"hero_pretresse_t5": 0.06,"hero_pyromancien_archimage": 0.007,"hero_pyromancien_demoniste": 0.051,"hero_pyromancien_t1": 0.009,"hero_pyromancien_t2": 0.007,"hero_pyromancien_t3": 0.007,"hero_pyromancien_t4": 0.007,"hero_pyromancien_t5": 0.009,"hero_revenant_seigneur_sang": 0.151,"hero_revenant_spectre": 0.114,"hero_revenant_t1": 0.109,"hero_revenant_t2": 0.151,"hero_revenant_t3": 0.156,"hero_revenant_t4": 0.149,"hero_revenant_t5": 0.095,"hero_sorciere_druidesse": 0.051,"hero_sorciere_sorciere_noire": 0.028,"hero_sorciere_t1": 0.007,"hero_sorciere_t2": 0.014,"hero_sorciere_t3": 0.012,"hero_sorciere_t4": 0.009,"hero_sorciere_t5": 0.019,"hero_templier_bastion": 0.021,"hero_templier_inquisiteur": 0.007,"hero_templier_t1": 0.007,"hero_templier_t2": 0.007,"hero_templier_t3": 0.005,"hero_templier_t4": 0.026,"hero_templier_t5": 0.009};window.ART_CX={"hero_arbaletriere_chasseresse":0.413,"hero_arbaletriere_t1":0.377,"hero_arbaletriere_t2":0.376,"hero_arbaletriere_t3":0.379,"hero_arbaletriere_t4":0.353,"hero_arbaletriere_t5":0.43,"hero_arbaletriere_tireuse_elite":0.329,"hero_berserker_ecorcheur":0.532,"hero_berserker_t2":0.538,"hero_chasseur_sorcieres_purificateur":0.444,"hero_chasseur_sorcieres_t1":0.307,"hero_chasseur_sorcieres_t2":0.333,"hero_chasseur_sorcieres_t3":0.335,"hero_chasseur_sorcieres_t4":0.39,"hero_chasseur_sorcieres_t5":0.439,"hero_chasseur_sorcieres_traqueur":0.395,"hero_exorciste_penitent":0.372,"hero_exorciste_t1":0.55,"hero_exorciste_t2":0.551,"hero_exorciste_t4":0.538,"hero_gardien_runes_forge_tonnerre":0.54,"hero_gardien_runes_t1":0.587,"hero_gardien_runes_t3":0.545,"hero_gardien_runes_t5":0.536,"hero_hallebardier_garde_roi":0.441,"hero_hallebardier_lansquenet":0.467,"hero_hallebardier_t1":0.43,"hero_hallebardier_t2":0.433,"hero_hallebardier_t3":0.429,"hero_hallebardier_t4":0.434,"hero_hallebardier_t5":0.463,"hero_medecin_peste_apothicaire":0.446,"hero_medecin_peste_chirurgien":0.447,"hero_medecin_peste_t1":0.447,"hero_medecin_peste_t2":0.453,"hero_medecin_peste_t3":0.446,"hero_medecin_peste_t4":0.463,"hero_medecin_peste_t5":0.451,"hero_menestrel_t1":0.46,"hero_menestrel_t3":0.468,"hero_menestrel_t5":0.432,"hero_necromancien_liche":0.53,"hero_necromancien_maitre_tombes":0.531,"hero_necromancien_t1":0.535,"hero_necromancien_t2":0.565,"hero_necromancien_t3":0.54,"hero_necromancien_t4":0.537,"hero_necromancien_t5":0.533,"hero_ombre_assassin":0.605,"hero_ombre_ombre_sang":0.56,"hero_ombre_t1":0.551,"hero_ombre_t2":0.571,"hero_ombre_t3":0.557,"hero_ombre_t4":0.598,"hero_ombre_t5":0.62,"hero_pretresse_t1":0.538,"hero_pyromancien_demoniste":0.453,"hero_revenant_seigneur_sang":0.376,"hero_revenant_spectre":0.397,"hero_revenant_t1":0.376,"hero_revenant_t2":0.371,"hero_revenant_t3":0.368,"hero_revenant_t4":0.374,"hero_revenant_t5":0.403,"hero_sorciere_druidesse":0.547,"hero_sorciere_t1":0.592,"hero_sorciere_t2":0.605,"hero_sorciere_t3":0.571,"hero_sorciere_t4":0.558,"hero_sorciere_t5":0.603,"hero_templier_inquisiteur":0.47,"hero_templier_t1":0.542,"mon_abbe":0.468,"mon_anguille_ombre":0.538,"mon_araignee":0.463,"mon_archer":0.606,"mon_archer_os":0.392,"mon_boucher":0.538,"mon_bouffon_roi":0.651,"mon_cardinal":0.591,"mon_charognard":0.537,"mon_chauve_souris":0.443,"mon_chevalier_couronne":0.577,"mon_chevalier_dechu":0.587,"mon_chevalier_os":0.538,"mon_chevaucheur_calcine":0.592,"mon_chien_cendre":0.56,"mon_coeur_montagne":0.448,"mon_colosse_braise":0.448,"mon_crapaud":0.537,"mon_cultiste":0.538,"mon_devoreur_lumiere":0.53,"mon_dryade":0.551,"mon_fondeur_maudit":0.619,"mon_garde_spectral":0.627,"mon_goule":0.557,"mon_hallebardier_os":0.609,"mon_heraut_neant":0.633,"mon_homme_poisson":0.683,"mon_inquisiteur":0.457,"mon_jarl_mort":0.458,"mon_loup":0.447,"mon_mere_noyes":0.47,"mon_mineur_possede":0.634,"mon_necrophage":0.553,"mon_noyee_chantante":0.531,"mon_ogre":0.447,"mon_pendu":0.615,"mon_penitent_ardent":0.553,"mon_pestifere":0.653,"mon_profond":0.607,"mon_reine_sabbat":0.465,"mon_revenant_glace":0.607,"mon_roi":0.559,"mon_roi_noye":0.404,"mon_roi_vide":0.56,"mon_sangsue":0.45,"mon_sans_visage":0.551,"mon_sentinelle_obsidienne":0.556,"mon_sorcier_givre":0.61,"mon_sorciere_marais":0.605,"mon_spectre":0.539,"mon_squelette":0.581,"mon_thuriferaire":0.606,"mon_troll_givre":0.587,"mon_ver_roche":0.538,"pet_araignee_evo":0.453,"pet_belette":0.433,"pet_chat_noir":0.463,"pet_chouette":0.559,"pet_corbeau":0.47,"pet_corbeau_evo":0.463,"pet_crapaud":0.437,"pet_crapaud_evo":0.467,"pet_drake":0.453,"pet_griffon":0.557,"pet_griffon_evo":0.557,"pet_loup":0.43,"pet_loup_evo":0.45,"pet_ours_evo":0.463,"pet_renard_evo":0.467,"pet_salamandre":0.47,"pet_sanglier":0.537,"pet_sanglier_evo":0.457,"pet_vipere":0.53};window.ART_FACE={"mon_abbe":[0.412,0.145,0.258],"mon_alpha":[0.1,0.58,0.4],"mon_anguille_ombre":[0.447,0.124,0.27],"mon_araignee":[0.493,0.29,0.429],"mon_archer":[0.541,0.206,0.244],"mon_archer_os":[0.34,0.246,0.224],"mon_archonte_cendres":[0.37,0.22,0.15],"mon_boucher":[0.608,0.176,0.354],"mon_bouffon_roi":[0.478,0.183,0.223],"mon_bourreau":[0.61,0.127,0.268],"mon_brigand":[0.392,0.127,0.268],"mon_cardinal":[0.527,0.178,0.248],"mon_champion_roi":[0.36,0.124,0.27],"mon_charognard":[0.13,0.45,0.28],"mon_chauve_souris":[0.304,0.639,0.561],"mon_chevalier_couronne":[0.538,0.172,0.255],"mon_chevalier_dechu":[0.515,0.196,0.244],"mon_chevalier_os":[0.56,0.136,0.244],"mon_chevaucheur_calcine":[0.58,0.12,0.18],"mon_chien_cendre":[0.203,0.286,0.394],"mon_coeur_montagne":[0.3,0.17,0.22],"mon_colosse_braise":[0.42,0.13,0.2],"mon_contremaitre":[0.533,0.124,0.27],"mon_crabe_geant":[0.45,0.4,0.5],"mon_crapaud":[0.326,0.284,0.586],"mon_cultiste":[0.596,0.127,0.268],"mon_devoreur_lumiere":[0.22,0.2,0.3],"mon_diablotin":[0.25,0.3,0.25],"mon_docteur":[0.465,0.146,0.239],"mon_dryade":[0.468,0.164,0.255],"mon_follet":[0.5,0.6,0.35],"mon_fondeur_maudit":[0.596,0.127,0.269],"mon_garde_spectral":[0.635,0.316,0.208],"mon_gargouille":[0.24,0.36,0.27],"mon_golem":[0.3,0.15,0.24],"mon_golem_fer":[0.553,0.189,0.346],"mon_goule":[0.354,0.119,0.252],"mon_hallebardier_os":[0.531,0.152,0.177],"mon_heraut_neant":[0.565,0.173,0.357],"mon_homme_poisson":[0.585,0.234,0.325],"mon_horreur":[0.476,0.273,0.304],"mon_hydre":[0.365,0.167,0.32],"mon_inquisiteur":[0.422,0.179,0.252],"mon_jarl_mort":[0.22,0.14,0.17],"mon_leviathan":[0.474,0.175,0.352],"mon_liche":[0.503,0.199,0.245],"mon_loup":[0.13,0.47,0.45],"mon_loup_givre":[0.15,0.42,0.4],"mon_matrone_os":[0.536,0.173,0.253],"mon_mere_noyes":[0.463,0.184,0.349],"mon_mere_ronces":[0.465,0.202,0.331],"mon_mineur_possede":[0.491,0.139,0.266],"mon_moine_flagellant":[0.435,0.111,0.233],"mon_necrophage":[0.436,0.127,0.261],"mon_noye":[0.522,0.127,0.268],"mon_noyee_chantante":[0.382,0.13,0.268],"mon_oeil":[0.481,0.152,0.215],"mon_ogre":[0.467,0.167,0.356],"mon_pecheur":[0.488,0.173,0.238],"mon_pendu":[0.338,0.17,0.254],"mon_penitent_ardent":[0.529,0.173,0.251],"mon_pestifere":[0.533,0.133,0.266],"mon_pretre_abysses":[0.551,0.18,0.354],"mon_pretre_suie":[0.488,0.132,0.265],"mon_prieur":[0.499,0.141,0.264],"mon_profond":[0.38,0.2,0.18],"mon_rat":[0.13,0.47,0.5],"mon_reine_hiver":[0.533,0.181,0.205],"mon_reine_sabbat":[0.476,0.188,0.249],"mon_revenant_glace":[0.564,0.172,0.298],"mon_roi":[0.546,0.166,0.253],"mon_roi_noye":[0.416,0.215,0.242],"mon_roi_vide":[0.59,0.199,0.346],"mon_sangsue":[0.264,0.17,0.355],"mon_sans_nom":[0.509,0.213,0.239],"mon_sans_visage":[0.479,0.201,0.343],"mon_sentinelle_obsidienne":[0.562,0.158,0.257],"mon_seraphin_dechu":[0.15,0.15,0.16],"mon_sorcier_givre":[0.468,0.221,0.24],"mon_sorciere_marais":[0.492,0.235,0.235],"mon_spectre":[0.434,0.112,0.237],"mon_spectre_blizzard":[0.3,0.12,0.18],"mon_squelette":[0.436,0.106,0.208],"mon_thuriferaire":[0.588,0.175,0.213],"mon_troll_givre":[0.44,0.2,0.3],"mon_ver_roche":[0.368,0.168,0.358],"pet_araignee":[0.675,0.45,0.442],"pet_araignee_evo":[0.695,0.49,0.464],"pet_belette":[0.753,0.292,0.599],"pet_cerf":[0.778,0.203,0.23],"pet_cerf_evo":[0.72,0.42,0.2],"pet_chat_noir":[0.733,0.327,0.599],"pet_chat_noir_evo":[0.729,0.353,0.453],"pet_chauve_souris":[0.55,0.55,0.4],"pet_chauve_souris_evo":[0.5,0.4,0.4],"pet_chouette":[0.74,0.33,0.25],"pet_chouette_evo":[0.6,0.42,0.18],"pet_corbeau":[0.742,0.152,0.315],"pet_corbeau_evo":[0.733,0.166,0.323],"pet_crapaud":[0.703,0.289,0.581],"pet_crapaud_evo":[0.675,0.31,0.562],"pet_drake":[0.733,0.208,0.331],"pet_drake_evo":[0.731,0.389,0.543],"pet_feu_follet":[0.45,0.52,0.3],"pet_feu_follet_evo":[0.45,0.52,0.25],"pet_gargouille":[0.75,0.32,0.38],"pet_gargouille_evo":[0.74,0.45,0.32],"pet_griffon":[0.84,0.27,0.3],"pet_griffon_evo":[0.84,0.2,0.27],"pet_loup":[0.742,0.248,0.437],"pet_loup_evo":[0.739,0.303,0.588],"pet_molosse":[0.816,0.173,0.352],"pet_molosse_evo":[0.709,0.171,0.354],"pet_ours":[0.729,0.29,0.593],"pet_ours_evo":[0.7,0.284,0.601],"pet_renard":[0.745,0.305,0.588],"pet_renard_evo":[0.69,0.507,0.467],"pet_salamandre":[0.87,0.45,0.45],"pet_salamandre_evo":[0.87,0.45,0.45],"pet_sanglier":[0.84,0.55,0.55],"pet_sanglier_evo":[0.82,0.68,0.5],"pet_vipere":[0.78,0.22,0.28],"pet_vipere_evo":[0.72,0.27,0.3]};window.UI_ATLAS={"c":12,"r":10,"s":96,"n":{"aim":0,"amulet":1,"anvil":2,"armor":3,"axe":4,"back":5,"bag":6,"banner":7,"bark":8,"bell":9,"bird":10,"bless":11,"blood":12,"bolt":13,"bones":14,"book":15,"boom":16,"camp":17,"castle":18,"chain":19,"chapel":20,"charge":21,"chest":22,"claw":23,"cleanse":24,"cloak":25,"coin":26,"crown":27,"cup":28,"curse":29,"dagger":30,"daily":31,"dice":32,"drain":33,"ember":34,"essence":35,"eye":36,"fang":37,"fear":38,"feather":39,"fire":40,"flames":41,"flare":42,"flask":43,"flee":44,"frost":45,"furnace":46,"gear":47,"gem":48,"ghost":49,"glove":50,"guard":51,"hammer":52,"hand":53,"heal":54,"heart":55,"helm":56,"herb":57,"horn":58,"hourglass":59,"iron":60,"knives":61,"link":62,"lock":63,"lute":64,"mace":65,"map":66,"mark":67,"mask":68,"meteor":69,"moon":70,"music":71,"note":72,"pact":73,"paw":74,"pierce":75,"pillar":76,"potion":77,"quest":78,"rage":79,"rain":80,"ray":81,"ring":82,"riposte":83,"root":84,"rosary":85,"run":86,"sanct":87,"scroll":88,"scythe":89,"seal":90,"shard":91,"shield":92,"shroud":93,"skull":94,"skullc":95,"smoke":96,"sound":97,"star":98,"stun":99,"sun":100,"sword":101,"swords":102,"tavern":103,"thorn":104,"torch":105,"trap":106,"tree":107,"trophy":108,"vial":109,"wall":110,"weapon":111,"whirl":112,"wind":113}};window.SFX_LIST=["amb_abime","amb_bastion","amb_bourg","amb_catacombes","amb_cimes","amb_citadelle","amb_cite","amb_foret","amb_marais","amb_mines","amb_terres","amb_trone","fx_bell_1","fx_bleed_1","fx_bleed_2","fx_block_1","fx_block_2","fx_buff_1","fx_click_1","fx_coin_1","fx_coin_2","fx_crit_1","fx_crit_2","fx_dark_1","fx_dark_2","fx_dark_3","fx_debuff_1","fx_debuff_2","fx_die_1","fx_die_2","fx_door_1","fx_door_2","fx_fall_1","fx_fire_1","fx_fire_2","fx_fire_3","fx_forge_1","fx_forge_2","fx_frost_1","fx_frost_2","fx_heal_1","fx_heal_2","fx_heal_3","fx_heal_4","fx_heavy_1","fx_heavy_2","fx_hit_1","fx_hit_2","fx_hit_3","fx_hit_4","fx_holy_1","fx_holy_2","fx_holy_3","fx_level_1","fx_lose_1","fx_miss_1","fx_miss_2","fx_open_1","fx_poison_1","fx_poison_2","fx_shock_1","fx_shock_2","fx_shoot_1","fx_shoot_2","fx_slash_1","fx_slash_2","fx_slash_3","fx_step_1","fx_step_2","fx_step_3","fx_stun_1","fx_ult_1","fx_win_1"];window.ART_FLIP=["mon_archer_os","mon_moine_flagellant","mon_spectre","hero_ombre_assassin","hero_ombre_ombre_sang","mon_cardinal"];
 /* ═══════════════════════ Couronne de Cendres — utilitaires ═══════════════════════ */
 "use strict";
 const HASWIN = typeof window !== "undefined" && typeof document !== "undefined";

diff --git a/sw.js b/sw.js
@@ -1,5 +1,5 @@
 /* Service worker : le jeu fonctionne hors connexion une fois installé. */
-const CACHE = "couronne-cendres-cd54e2df32", ART_CACHE = "couronne-cendres-art-76005fee";
+const CACHE = "couronne-cendres-db13a3ed35", ART_CACHE = "couronne-cendres-art-d907b721";
 const SHELL = ["./", "./index.html", "./manifest.webmanifest", "./icon-192.png", "./icon-512.png", "./icon-maskable-512.png", "./apple-touch-icon.png", "./favicon-64.png"];
 self.addEventListener("install", e => { e.waitUntil(caches.open(CACHE).then(c => c.addAll(SHELL)).then(() => self.skipWaiting())); });
 self.addEventListener("activate", e => { e.waitUntil(caches.keys().then(ks => Promise.all(ks.filter(k => k !== CACHE && k !== ART_CACHE).map(k => caches.delete(k)))).then(() => self.clients.claim())); });
